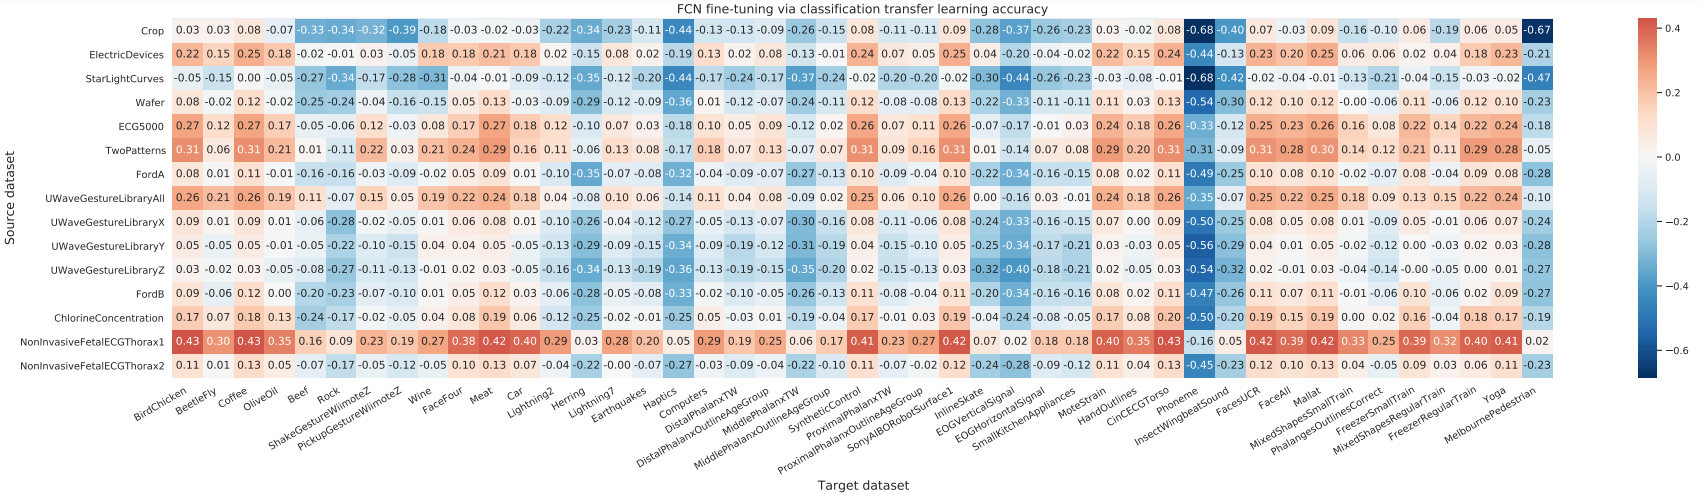
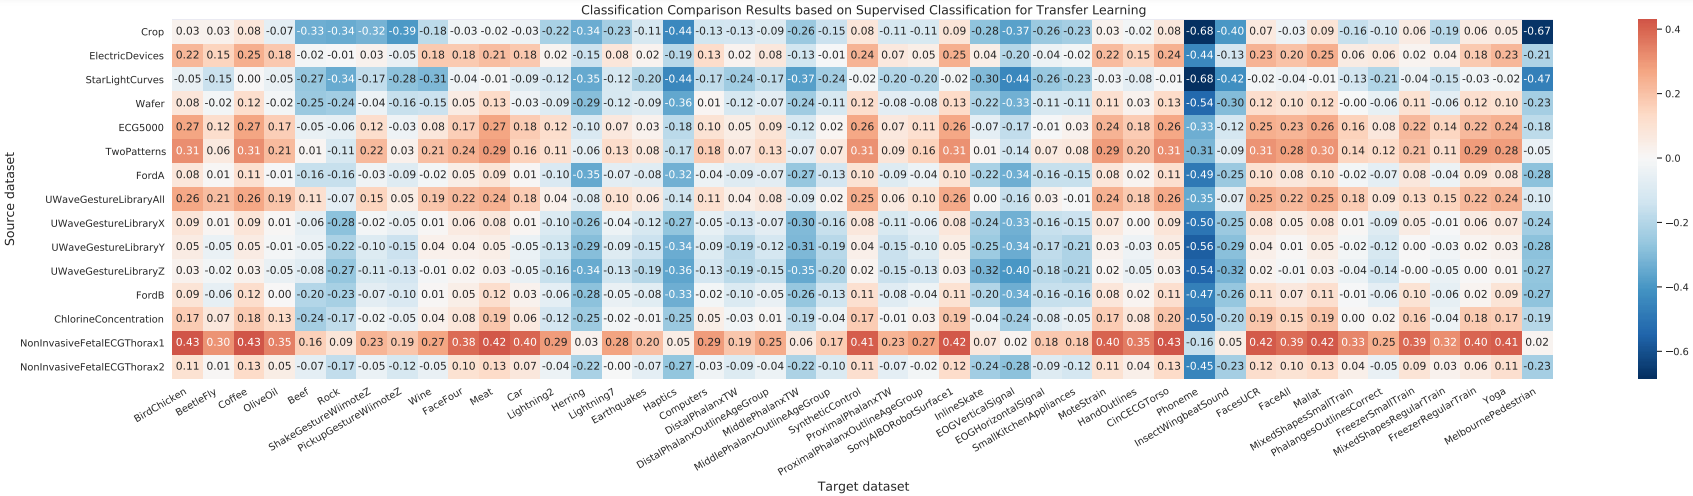
modify scripts & README

diff --git a/scripts/generator_pretrain_cls.py b/scripts/generator_pretrain_cls.py
@@ -66,7 +66,7 @@ for dataset in source_datasets:  ## cls pretrain
     with open('/SSD/lz/time_tsm/scripts/transfer_pretrain_finetune.sh', 'a') as f:
         f.write(
             'python train.py --backbone fcn --task classification --dataroot /SSD/lz/UCRArchive_2018 --normalize_way single '
-            '--dataroot /SSD/lz/UCRArchive_2018 --normalize_way train_set '
+            '--dataroot /SSD/lz/UCRArchive_2018 '
             '--dataset ' + dataset
             + ' --mode pretrain --epoch 2000 ' +
             ' --loss cross_entropy --cuda cuda:1' + ';\n')
@@ -81,7 +81,7 @@ for dataset in source_datasets:  ## rec fcn pretrain
     with open('/SSD/lz/time_tsm/scripts/transfer_pretrain_finetune.sh', 'a') as f:
         f.write(
             'python train.py --backbone fcn --task reconstruction --dataroot /SSD/lz/UCRArchive_2018 --normalize_way single '
-            '--dataroot /SSD/lz/UCRArchive_2018 --normalize_way train_set '
+            '--dataroot /SSD/lz/UCRArchive_2018 '
             '--dataset ' + dataset
             + ' --mode pretrain --epoch 2000 ' +
             ' --loss reconstruction --decoder_backbone fcn --cuda cuda:1' + ';\n')
@@ -97,7 +97,7 @@ for dataset in source_datasets:  ## rec rnn pretrain
     with open('/SSD/lz/time_tsm/scripts/transfer_pretrain_finetune.sh', 'a') as f:
         f.write(
             'python train.py --backbone fcn --task reconstruction --dataroot /SSD/lz/UCRArchive_2018 --normalize_way single '
-            '--dataroot /SSD/lz/UCRArchive_2018 --normalize_way train_set '
+            '--dataroot /SSD/lz/UCRArchive_2018 '
             '--dataset ' + dataset
             + ' --mode pretrain --epoch 2000 ' +
             ' --loss reconstruction --decoder_backbone rnn --cuda cuda:1' + ';\n')
@@ -114,11 +114,11 @@ for source_dataset in source_datasets:  ## cls finetune
         with open('/SSD/lz/time_tsm/scripts/transfer_pretrain_finetune.sh', 'a') as f:
             f.write(
                 'python train.py --backbone fcn --task classification --classifier nonlinear --classifier_input 128 --dataroot /SSD/lz/UCRArchive_2018 --normalize_way single '
-                '--dataroot /SSD/lz/UCRArchive_2018 --normalize_way train_set '
+                '--dataroot /SSD/lz/UCRArchive_2018 '
                 '--dataset ' + target_dataset
                 + ' --mode finetune --epoch 1000 ' +
                 ' --loss cross_entropy --source_dataset ' + source_dataset + ' --transfer_strategy classification '
-                                                                             '--cuda cuda:1 --save_csv_name ' + source_dataset + '_finetune_cls_0409_' + ';\n')
+                                                                             '--cuda cuda:1 --save_csv_name ' + source_dataset + '_finetune_cls_0418_' + ';\n')
 
 i = 0
 for source_dataset in source_datasets:  ## rec fcn finetune
@@ -132,11 +132,11 @@ for source_dataset in source_datasets:  ## rec fcn finetune
         with open('/SSD/lz/time_tsm/scripts/transfer_pretrain_finetune.sh', 'a') as f:
             f.write(
                 'python train.py --backbone fcn --task classification --classifier nonlinear --classifier_input 128 --dataroot /SSD/lz/UCRArchive_2018 --normalize_way single '
-                '--dataroot /SSD/lz/UCRArchive_2018 --normalize_way train_set '
+                '--dataroot /SSD/lz/UCRArchive_2018 '
                 '--dataset ' + target_dataset
                 + ' --mode finetune --epoch 1000 ' +
                 ' --loss cross_entropy --decoder_backbone fcn --source_dataset ' + source_dataset + ' --transfer_strategy reconstruction '
-                                                                                                    '--cuda cuda:1 --save_csv_name ' + source_dataset + '_finetune_rec_fcn_0409_' + ';\n')
+                                                                                                    '--cuda cuda:1 --save_csv_name ' + source_dataset + '_finetune_rec_fcn_0418_' + ';\n')
 
 i = 0
 for source_dataset in source_datasets:  ## rec rnn finetune
@@ -150,10 +150,11 @@ for source_dataset in source_datasets:  ## rec rnn finetune
         with open('/SSD/lz/time_tsm/scripts/transfer_pretrain_finetune.sh', 'a') as f:
             f.write(
                 'python train.py --backbone fcn --task classification --classifier nonlinear --classifier_input 128 --dataroot /SSD/lz/UCRArchive_2018 --normalize_way single '
-                '--dataroot /SSD/lz/UCRArchive_2018 --normalize_way train_set '
+                '--dataroot /SSD/lz/UCRArchive_2018 '
                 '--dataset ' + target_dataset
                 + ' --mode finetune --epoch 1000 ' +
                 ' --loss cross_entropy --decoder_backbone rnn --source_dataset ' + source_dataset + ' --transfer_strategy reconstruction '
-                                                                                                    '--cuda cuda:1 --save_csv_name ' + source_dataset + '_finetune_rec_rnn_0409_' + ';\n')
+                                                                                                    '--cuda cuda:1 --save_csv_name ' + source_dataset + '_finetune_rec_rnn_0418_' + ';\n')
 
 ## nohup ./scripts/transfer_pretrain_finetune.sh &
+## nohup ./scripts/ex1_transfer_pretrain_add.sh &

diff --git a/README.md b/README.md
@@ -86,8 +86,8 @@ python -u train_ssl.py --dataset_name [dataset name] --model_name SelfTime --ucr
 ### Transfer learning in UCR datasets
 ![Encoder_cls](png/encoder_cls_results.png "Classification test accuracy using FCN and Dilated CNN on 128 UCR datasets")
 
-![Transfer](png/transfer_learning_cls.png "Comparison of pre-training methods based on transfer learning via classification")
+![Transfer](png/transfer_learning_cls.png "Classification Comparison Results based on Supervised Classification for Transfer Learning")
 
-![Transfer](png/transfer_learning_rec_fcn.png "Comparison of pre-training methods based on transfer learning via fcn decoder reconstruction")
+![Transfer](png/transfer_learning_rec_fcn.png "Classification Comparison Results based on FCN Decoder Reconstruction for Transfer Learning")
 
-![Transfer](png/transfer_learning_rec_rnn.png "Comparison of pre-training methods based on transfer learning via rnn decoder reconstruction")
+![Transfer](png/transfer_learning_rec_rnn.png "Classification Comparison Results based on RNN Decoder Reconstruction for Transfer Learning")
